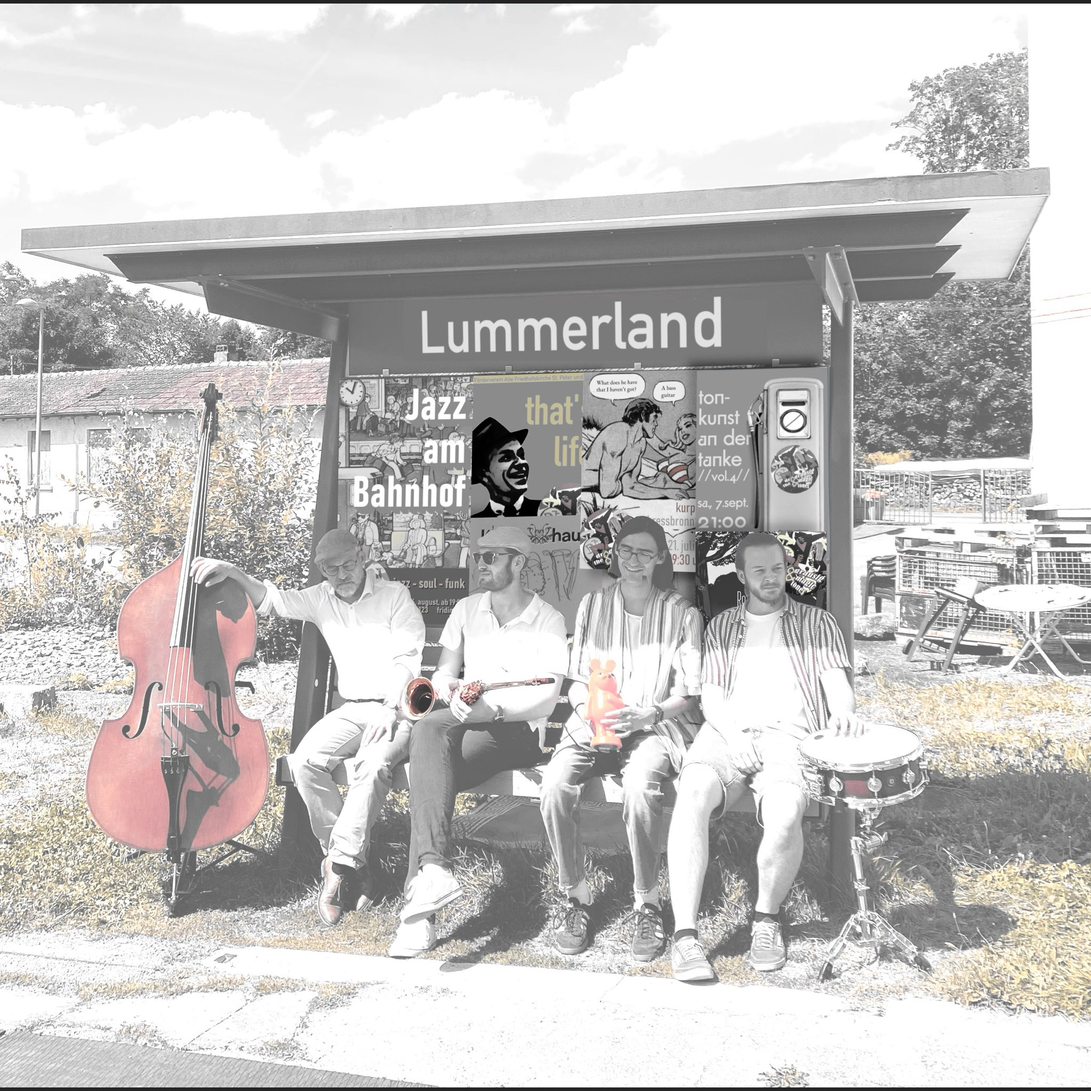
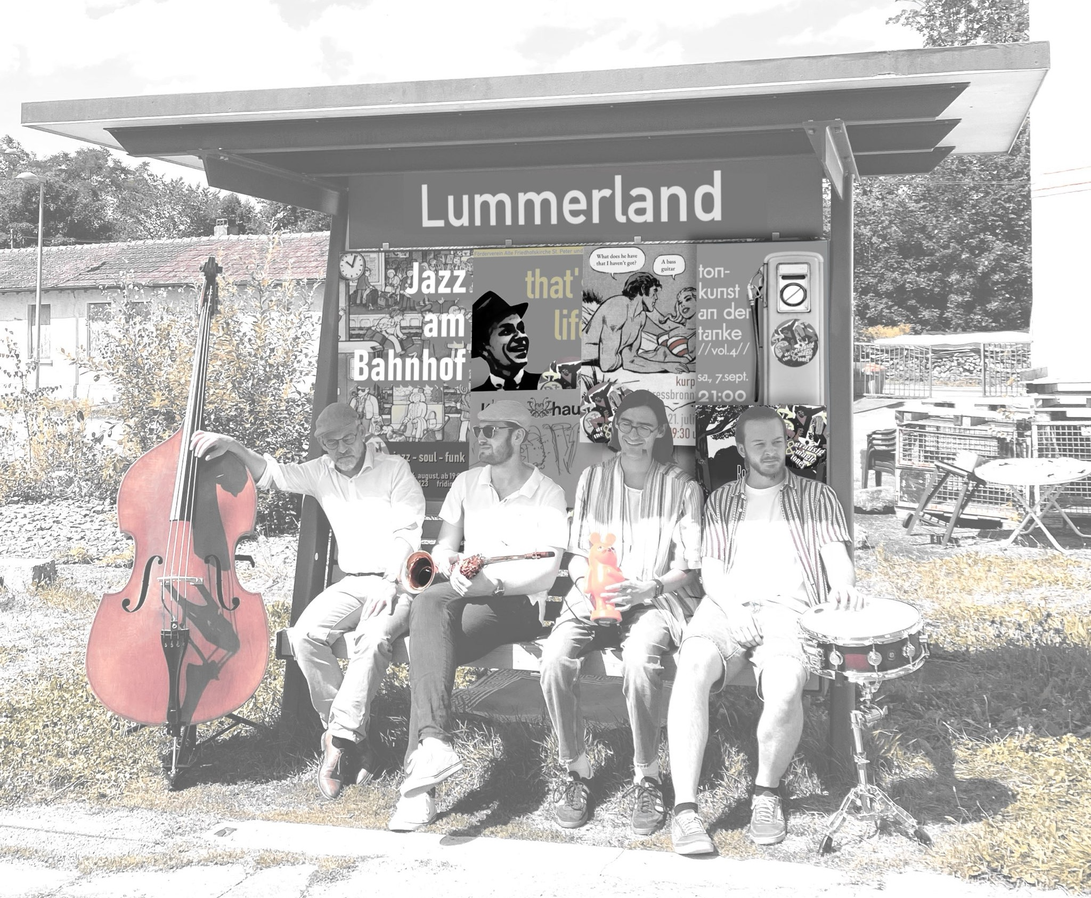
Bild beschnitten

diff --git a/newsletter/2024/03.html b/newsletter/2024/03.html
@@ -438,8 +438,9 @@
                                 <p style="line-height: 140%;">
                                   Und nun ist es folgerichtig, dass die Beute auch in der Räuberhöhle präsentiert werden
                                   möchte. Zusammen mit den bereits länger im Besitz der drei Musiker und des
-                                  Schlagzeugers befindlichen Gerätschaften kommen dieses Jahr bei <strong
-                                    style="color:#0197c9">Tonkunst an der Tanke</strong> sage und schreibe 20
+                                  Schlagzeugers befindlichen Gerätschaften kommen dieses Jahr bei <strong><a
+                                      href="https://www.drgrausig.de">Tonkunst an der Tanke</a></strong> sage und
+                                  schreibe 20
                                   Instrumente (und ein Schlagzeug) auf der Bühne zum
                                   Einsatz. Derart ausgerüstet ist es nur konsequent, dass die Band darangeht und nun
                                   auch die Wünsche des Publikums erfüllt: Die drei Musiker und der Schlagzeuger
